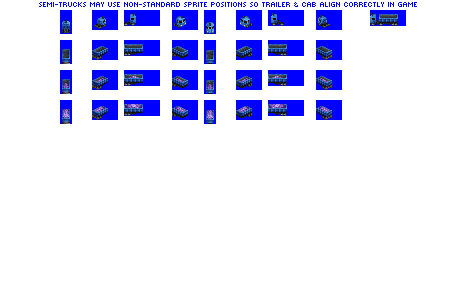
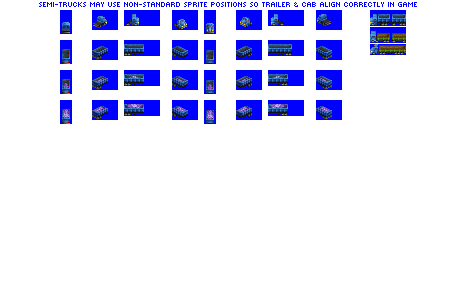
Change: (WIP) figuring out Honister format

diff --git a/src/vehicles/honister.py b/src/vehicles/honister.py
@@ -10,15 +10,13 @@ consist = RVConsist(id = 'honister',
               base_numeric_id = 230,
               title = 'Honister [Dump Truck]',
               replacement_id = '-none',
-              semi_truck = True,
               vehicle_life = 40,
               intro_date = 1947)
 
 consist.add_unit(DumpHauler(consist = consist,
                         weight = 6,
                         capacity = 0,
-                        vehicle_length = 2,
-                        semi_truck_shift_offset_jank = 2,
+                        vehicle_length = 5,
                         effects = ['EFFECT_SPRITE_DIESEL, -2, 1, 10'],
                         always_use_same_spriterow = True,
                         spriterow_num = 0))
@@ -26,7 +24,7 @@ consist.add_unit(DumpHauler(consist = consist,
 consist.add_unit(DumpHauler(consist = consist,
                         weight = 6,
                         capacity = 30,
-                        vehicle_length = 5,
+                        vehicle_length = 4,
                         spriterow_adjust = {'multiplier': 0, 'offset': 1}))
 
 consist.add_model_variant(intro_date=0,
